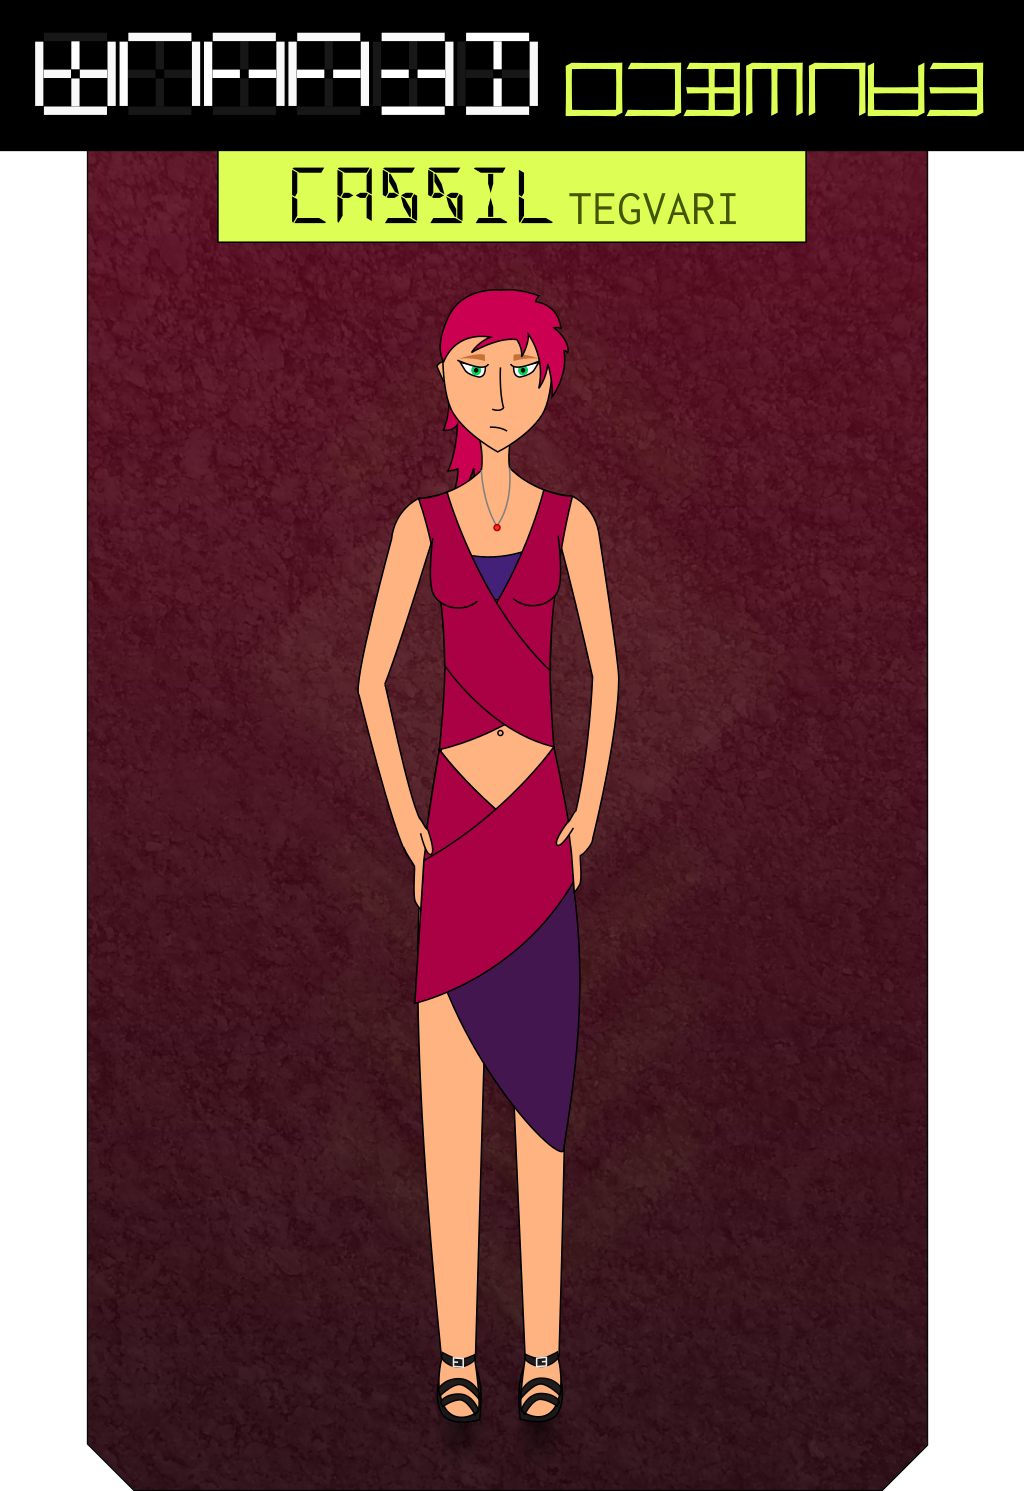
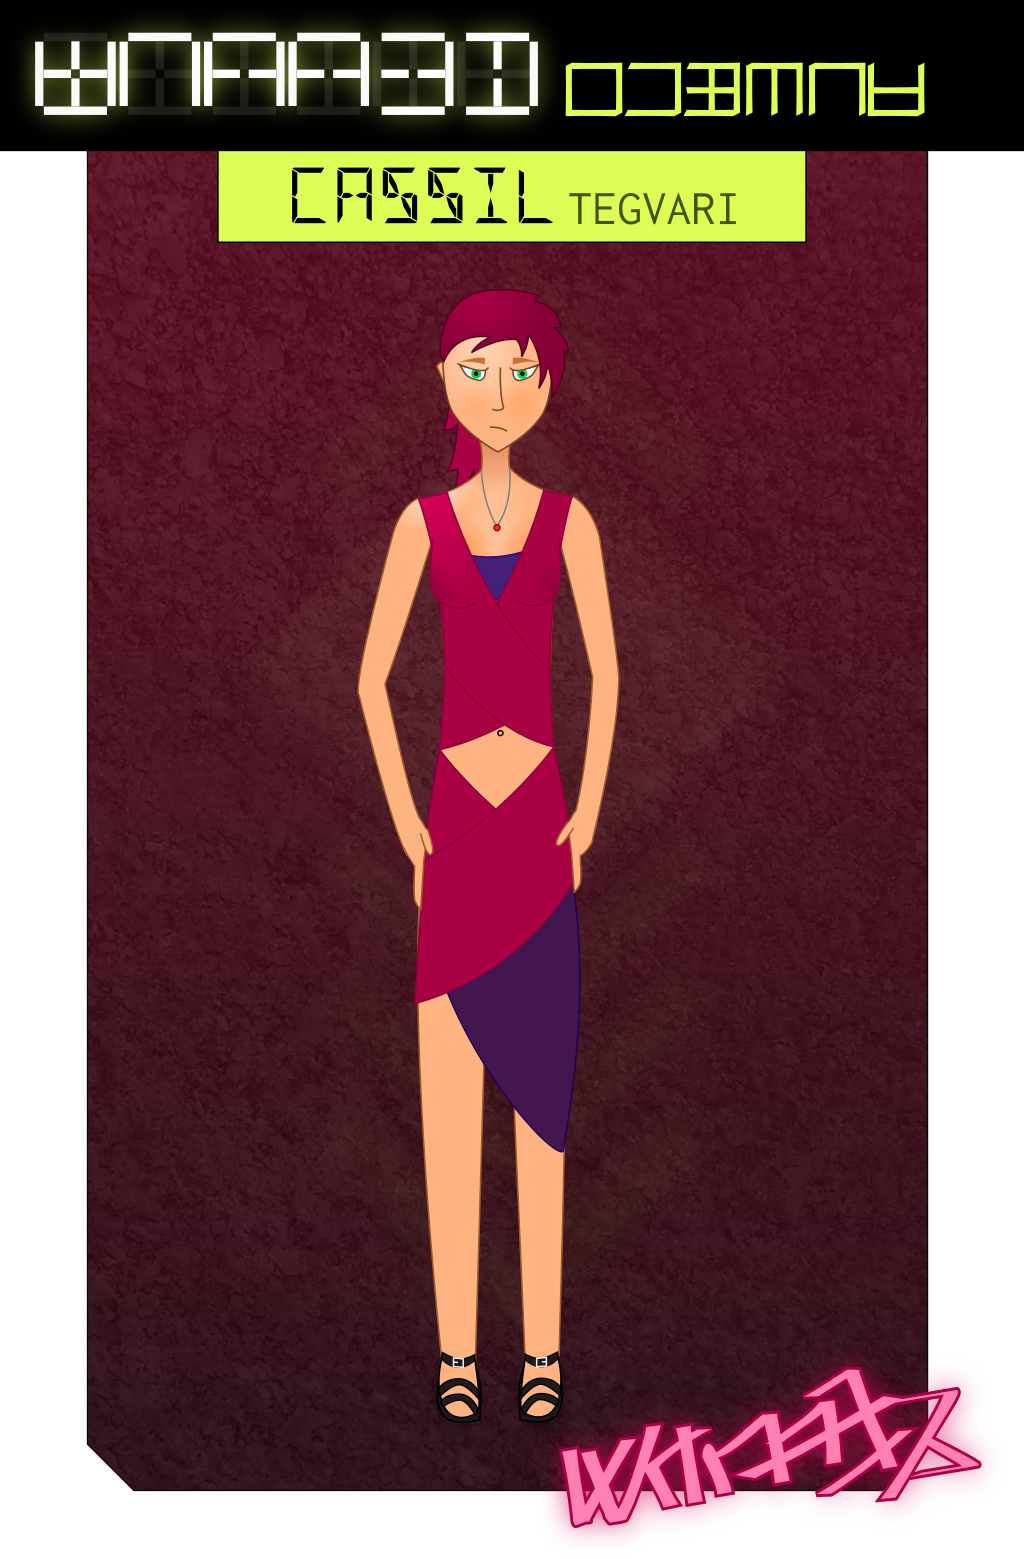
fixes

Changed region(s): [[0.0, 0.0, 1.0, 1.0], [0.75, 0.0309, 0.7812, 0.0617]]

diff --git a/stories/spirals/end-in-sight.html b/stories/spirals/end-in-sight.html
@@ -22,13 +22,13 @@
 <p>“I’ll be there directly,” she says instead, and hangs up.</p>
 <p>She grabs a robe from the rack, wraps it carelessly around her body, and pushes aside the window curtains. The Capital is soaked with rain. Flecks and drops of water alternately dart past the glass and smear themselves across it. She drops the curtains, throws a trenchcoat over her shoulders, straps on her boots, walks out the door without leggings or armwraps or beads.</p>
 <p>The Triumvirate hab block has a direct underground link to the Core Line, but ordering in a train at this hour would take longer than walking. She heads out the ground door instead, pulls her coat tight around her as the cold hits her. There’s rapitrans station out front, and she hurries towards it. A green lamp at the end of the entrance ramp lights up to acknowledge her authorization. A train rolls in before she has time to freeze in the weather.</p>
-<p>It’s sparsefully filled. Late-night medics and military officers at the end of night shifts, plus the occasional restless soul between their first and second sleeps. None of them recognize her. They begin moving again. Risnil watches dully as the landscape and city buildings pass, and rain spatters diagonally across the windows, and she speculates. Tries to imagine what cosmic catastrophe must have beset the People to provoke this response.</p>
+<p>It’s sparsely filled. Late-night medics and military officers at the end of night shifts, plus the occasional restless soul between their first and second sleeps. None of them recognize her. They begin moving again. Risnil watches dully as the landscape and city buildings pass, and rain spatters diagonally across the windows, and she speculates. Tries to imagine what cosmic catastrophe must have beset the People to provoke this response.</p>
 <p><em>“Central Tower Platform. Doors to the left and right.”</em></p>
 <p>Risnil steps off the train. The bulk of Central Tower looms over her. She breezes through the array of optical turnstiles guarding the front entrance, nodding to the soldiers on patrol, and heads inside. The building is dark and empty save for a handful of safety lights gleaming in the void and the dim moonlight streaming in through the windows. She walks to the lift, its panel lighting up to acknowledge her presence. Its machinery whirs into motion and soon the doors part, leading her into a spacious, warm car. A strip of floors lights up on the wall, and she taps one that only fifteen people in the universe have access to.</p>
 <p>She leans against the wall as the doors press shut and closes her eyes. Adrenaline will only last her so long. She can already feel the rush beginning the wear off, and when it does, she’s going to crash so hard there might as well be a strung-out Rosie in her pilot seat.</p>
 <p>The counter on the wall blinks steadily higher. Floor 10. Floor 1A. Floor 1F. Floor 23. Finally it reaches Floor 30, and the doors part. She barges out. A guard brandishing a reader plate moves to intercept her, and then sees her face.</p>
 <p>“I’m so sorry, ma’am. I didn’t realize it was you.”</p>
-<p>She patted him on the shoulder. “You’re doing fine, officer. Keep up the good work.</p>
+<p>She pats him on the shoulder. “You’re doing fine, officer. Keep up the good work.</p>
 <p>“Yes, ma’am!” He salutes.</p>
 <p>“Ma’am.” The receptionist at the front desk rises to greet her. “They’re waiting for you in the situation room.”</p>
 <p>“How many of them?”</p>
@@ -36,10 +36,10 @@
 <p>A fresh spike of adrenaline surges and Risnil nods. “Thank you, Sofi.”</p>
 <p>The door to the situation room glides back, and Risnil hurries inside. Only fifteen people in the universe have unrestricted access to this place, and now they’re all here. In the center, the huge tactical display is lit up, showing a dull red orb where it usually shows spacefleet diagrams.</p>
 <p>Overdirector Rostan Rani glances over at Risnil as she shrugs out of her coat and hangs it on a rack. It’s an hour past midnight and Rostan is in her full regalia, face freshly washed, eyes bright, hair tied back in a prim ponytail, crisp black beret poised atop her head. She glances at Risnil, bare-legged in her pajamas, hair tangled and eyes bleary, and doesn’t so much as twitch an eyebrow in disapproval.</p>
-<p>“Risi,” she says. “You’re here. Good.”</p>
+<p>“Ris,” she says. “You’re here. Good.”</p>
 <p>Risnil mentally upgrades the situation from <em>national emergency</em> to <em>galactic emergency.</em></p>
-<p>“Rosi. What the fuck is going on? What’s that on the display?”</p>
-<p>Rosi glances at General Sarian. “Carnelian,” she says.</p>
+<p>“Rosta. What the fuck is going on? What’s that on the display?”</p>
+<p>Rostan glances at Director Sarian. “Carnelian,” she says.</p>
 <p>Risnil blinks. “Carnelian? Capital-of-the-Empire Carnelian?”</p>
 <p>“Until about three hours ago, as far as we can tell.”</p>
 <p>Risnil steps closer to the display, scrutinizing the array of glittering voxels. The sphere is definitely a planet. It looks nothing like Adamant Carnelian of Imperial Glory, population twenty billion, throneworld of the Sixth Empress, and seat of her sprawling government.</p>
@@ -52,7 +52,7 @@
 <p>Rostan clasps her hands behind her back. “Director, if you would?”</p>
 <p>Director of Military Intelligence Sarian Cormasi nods. She steps forward, salutes. “As of triple-zero TCT, none of our embedded assets on Carnelian had checked in,” she begins crisply, Risnil wondering how the fuck anyone can be that lucid this soon after being dragged out of bed. “Our clandestine buoy was still intact and answering operational signals. We assumed either our entire network had been rolled up somehow, or the buoy was malfunctioning. A spy-ship was dispatched from Clandestine Station Carnelian-1 with orders to attempt radio contact with our operatives, and failing that, ascertain their location and exfil if possible.</p>
 <p>“On approach to Carnelian, the ship noted no radio signals apart from a small number automated orbital satellites and buoys. Wreckage was noted in orbit previously occupied by transit stations and thousands of satellites, cause of destruction unknown. After reaching photographic range, the ship identified a surface anomaly and closed visual range to investigate. This,” she gestures at the display, “is what they found.”</p>
-<p>“Thank you, Director,” Rostan says quietly. Sarian salutes sharply and steps back.</p>
+<p>“Thank you, Director,” Rostan says quietly. Sarian bows and steps back.</p>
 <p>“What the fuck happened?” Risnil blurts out. “Did the Echoes cluster-nuke the whole damn planet?”</p>
 <p>“Telemetry isn’t consistent with widespread nuclear attack. And the devastation is too comprehensive even for gigaton-range warheads,” Director Sarian responds quickly.</p>
 <p>“I swear on the stars — if I didn’t know better, I’d say they were hit by an asteroid,” Overdirector Ciruen comments. She’s sitting backwards on a chair, leaning heavily on the back, staring raptly at the display.</p>
@@ -77,7 +77,7 @@
 <p>“That’s an interesting thought,” says Risnil. Rostan nods. “How do you mean, exactly?”</p>
 <p>“Our economy is intact, as are our military and supply lines. We’re in a position to offer reconstruction aid.”</p>
 <p>Risnil sucks in a sharp breath. “If you’re going to ask me to ask our people to start building homes and ships for the empire that tried to conquer us—”</p>
-<p>“Hear me out, okay?” Ciruen drummed her fingers on the chairback. “We can weave ourselves into the power structure of a new empire so its leaders are utterly dependent on us. They’d become a puppet state.”</p>
+<p>“Hear me out, okay?” Ciruen drums her fingers on the back of her chair. “We can weave ourselves into the power structure of a new empire so its leaders are utterly dependent on us. They’d become a puppet state.”</p>
 <p>“This is coming dangerously close to a violation of <i>shevret,”</i> Rostan interjects. “You of all people should be concerned by that.”</p>
 <p>“I agree.” Risnil nods slowly. “This is a very radical strategy you’re proposing.”</p>
 <p>“I’m not saying we establish trade ties!” Ciruen says quickly. “They have nothing material we want. But we can offer stability. We have functional covert services, communications networks. We can use those to elevate someone.”</p>
@@ -92,21 +92,21 @@
 <p>“We tried that route before.”</p>
 <p>“We were already at war. And I remain convinced the ceasefire talks were sabotaged.”</p>
 <p>“Comrades.” Risnil clears her throat. “Being at each other’s throats is the last thing we need right now.”</p>
-<p>“She’s right,” said Rostan. “Ciruen, you know I respect you. I don’t want you to think I’m dismissing your ideas out of hand.”</p>
+<p>“She’s right,” says Rostan. “Ciruen, you know I respect you. I don’t want you to think I’m dismissing your ideas out of hand.”</p>
 <p>“Then don’t!” Ciruen sighs. “We can find a compromise, can’t we? One that ends this awful war without further bloodshed, that doesn’t entangle us too much with the Empire?”</p>
 <p>Risnil tapped a foot thoughtfully. “What about the occupied worlds?”</p>
 <p>Rostan raised an eyebrow. “What about them?”</p>
 <p>“We obviously can’t induct them. But we can’t hand them back to the nobles, either. They’re pacified and their leadership is firmly loyal, but utterly dependent on us.” She purses her lips. “There are about a hundred right now, yes?”</p>
 <p>“One hundred and twenty-six, yes.”</p>
-<p>“We could spin them off into their own state. One allied with the People, one under our control, as a buffer between us and the Empire. A client state would not be limited by shevret. It could assist in reconstruction of the Empire, maybe even recruit more worlds to its ranks. Most importantly, it could trade with the Empire, making war an unattractive prospect.”</p>
+<p>“We could spin them off into their own state. One allied with the People, one under our control, as a buffer between us and the Empire. A client state would not be limited by <i>shevret</i>. It could assist in reconstruction of the Empire, maybe even recruit more worlds to its ranks. Most importantly, it could trade with the Empire, making war an unattractive prospect.”</p>
 <p>“I like this!” Ciruen nods. “What about you, Rosta?”</p>
 <p>Rostan nods. “It could work. It could really work. It would be an enormous undertaking, but—” She smiles. “That’s what the People are here for.” She turns to Director Shascir Tosdashi of the Foreign Policy Directorate. “Director, get your people on this right now. I want a detailed first-draft proposal for a client state on my desk by noon.”</p>
-<p>Shascir saluted. “Very good, ma’am.”</p>
+<p>Shascir salutes. “Very good, ma’am.”</p>
 <p>“Of course,” Rostan adds grimly, “we have no idea what the Echoes are planning to do with the Rosie worlds. Unconditional surrender is the Rosies’ only option at this point.”</p>
 <p>“We’ll find out soon enough,” Sarian chimes in. “I’ve ordered my people to try and coopt what remains of the Imperial intelligence network. There are a million domestic spies out in the cold now, and finding a new master could be an attractive prospect to some of them.”</p>
 <p>Rostan nods approvingly. “That should dramatically improve our intelligence-gathering capabilities.”</p>
-<p>“On a more immediate subject,” said Ciruen, “assuming the attack of Carnelian was by a new Thalisan weapon, I think we can expect they’ll sue for peace soon.”</p>
-<p>Rostan frowned. “How so?”</p>
+<p>“On a more immediate subject,” says Ciruen, “assuming the attack of Carnelian was by a new Thalisan weapon, I think we can expect they’ll sue for peace soon.”</p>
+<p>Rostan frowns. “How so?”</p>
 <p>“They’ve just unveiled a new capacity that vastly alters the calculations of war. The attack on Carnelian must be construed as a threat of attack against Tel Casran.”</p>
 <p>“They don’t even know where this planet is!”</p>
 <p>“We can’t assume that. Further, we can’t assume they wouldn’t find it eventually. Finally, even if they don’t, they know where plenty other worlds of ours are. Fortifications against nuclear attack won’t hold up against whatever hit Carnelian, we can be damn sure.”</p>
@@ -116,11 +116,11 @@
 <p>“We fight to the death,” Rostan replies coldly.</p>
 <p>Ciruen pales. “Assuming the worst about their new weapon — Rosta, you’re talking about suicide!”</p>
 <p>“So would surrender. If they want to destroy us as a culture, they’ll have to do it the hard way.”</p>
-<p>“I’m inclined to agree,” Risnil murmurs quietly. “We’ve done some damage to the Echoes. Nowhere near what they’ve done to us, but all our intelligence shows they’re more sparsely populated. If we force them to choose between a bilateral treaty and a war of extermination, I think they’ll choose the former, at least eventually. Especially…” She looks grimly at Rostan. “Especially if we rescind our policy against countervalue strikes. Nuke a few civilian encampments and they might get more cooperative.” She glances about the room. “But we’re talking about risking the life of every woman, man, and child among the People. The three of us alone have no right no impose that fate alone.”</p>
+<p>“I’m inclined to agree,” Risnil murmurs quietly. “We’ve done some damage to the Echoes. Nowhere near what they’ve done to us, but all our intelligence shows they’re more sparsely populated. If we force them to choose between a bilateral treaty and a war of extermination, I think they’ll choose the former, at least eventually. Especially…” She looks grimly at Rostan. “Especially if we rescind our policy against countervalue strikes. Nuke a few civilian encampments and they might get more cooperative.” She glances about the room. “But we’re talking about risking the life of every woman, man, and child among the People. The three of us alone have no right no impose that fate.”</p>
 <p>Director of Fleet Operations Matlis Curpodi steps forward, salutes. “I think I speak for all my people, ma’am,” he says, “when I say I want to go down swinging. I will gladly die for the People, if that’s what it takes.”</p>
 <p>“I wouldn’t say <em>gladly,”</em> comments Shascir, “but I would rather die than watch foreign thugs dismantle everything we’ve ever built.”</p>
-<p>“When I joined my unit, I swore I would die for the People, ma’am,” Director of Ground Operations Vigdar Tirmadi adds. She straightens, salutes sharply. “I meant what I said. I would personally rescind my own deferment and join our comrades in open battle if that’s what it took.”</p>
-<p>“I am loathe to sacrifice any more of my agents,” says Sarian wearily. “But I know them too well to think they’d choose submission to a foreign power over death.”</p>
+<p>“When I joined my unit, I <i>swore</i> I would die for the People, ma’am,” Director of Ground Operations Vigdar Tirmadi adds. She straightens, salutes as well. “I meant what I said. I would personally rescind my own deferment and join our comrades in open battle if that’s what it took.”</p>
+<p>“I am loath to sacrifice any more of my agents,” says Sarian wearily. “But I know them too well to think they’d choose submission to a foreign power over death.”</p>
 <p>Risnil looks to each of them in turn, studying their faces. There is fear, but there is determination.</p>
 <p>She touches the intercom contact. “Sofi,” she says, “could you come in here for a moment?”</p>
 <p>Rostan gives Risnil an odd look but doesn’t object.</p>
@@ -150,7 +150,7 @@
 <p>“Rosta, what about you?” Risnil interjects. “You’re putting on a brave face but—”</p>
 <p>“I’m fine,” Rostan says quickly. “I’m always fine, comrades. Don’t worry about me. We have enough else to worry about.”</p>
 <p>“Are you sure?”</p>
-<p>Rostan smiles. “Some of us were made for this, Risi.” She takes her by the shouder. “I’m here for the rest of you. That’s <em>why</em> I’m here.”</p>
+<p>Rostan smiles. “Some of us were made for this, Ris.” She takes her by the shouder. “I’m here for the rest of you. That’s <em>why</em> I’m here.”</p>
 <p>Risnil inclines her head. “I envy your strength sometimes.”</p>
 <p>“And I envy your wisdom.” Rostan steps back. “It’s going to take a lot of both to get us through to the end of this war.”</p>
 <p>“But,” Ciruen says, her eyes again fixed on the tactical display, “I think the end is finally in sight.”</p>

diff --git a/stories/spirals/taken.html b/stories/spirals/taken.html
@@ -89,5 +89,7 @@
 
 <p>Cassil waited until the door had closed behind the mediator before she buried her head in her arms and finally let the tears stream down cheeks.</p>
 
+<img src="ils/cassil.png" style="width: 100%">
+
 </body>
 </html>
